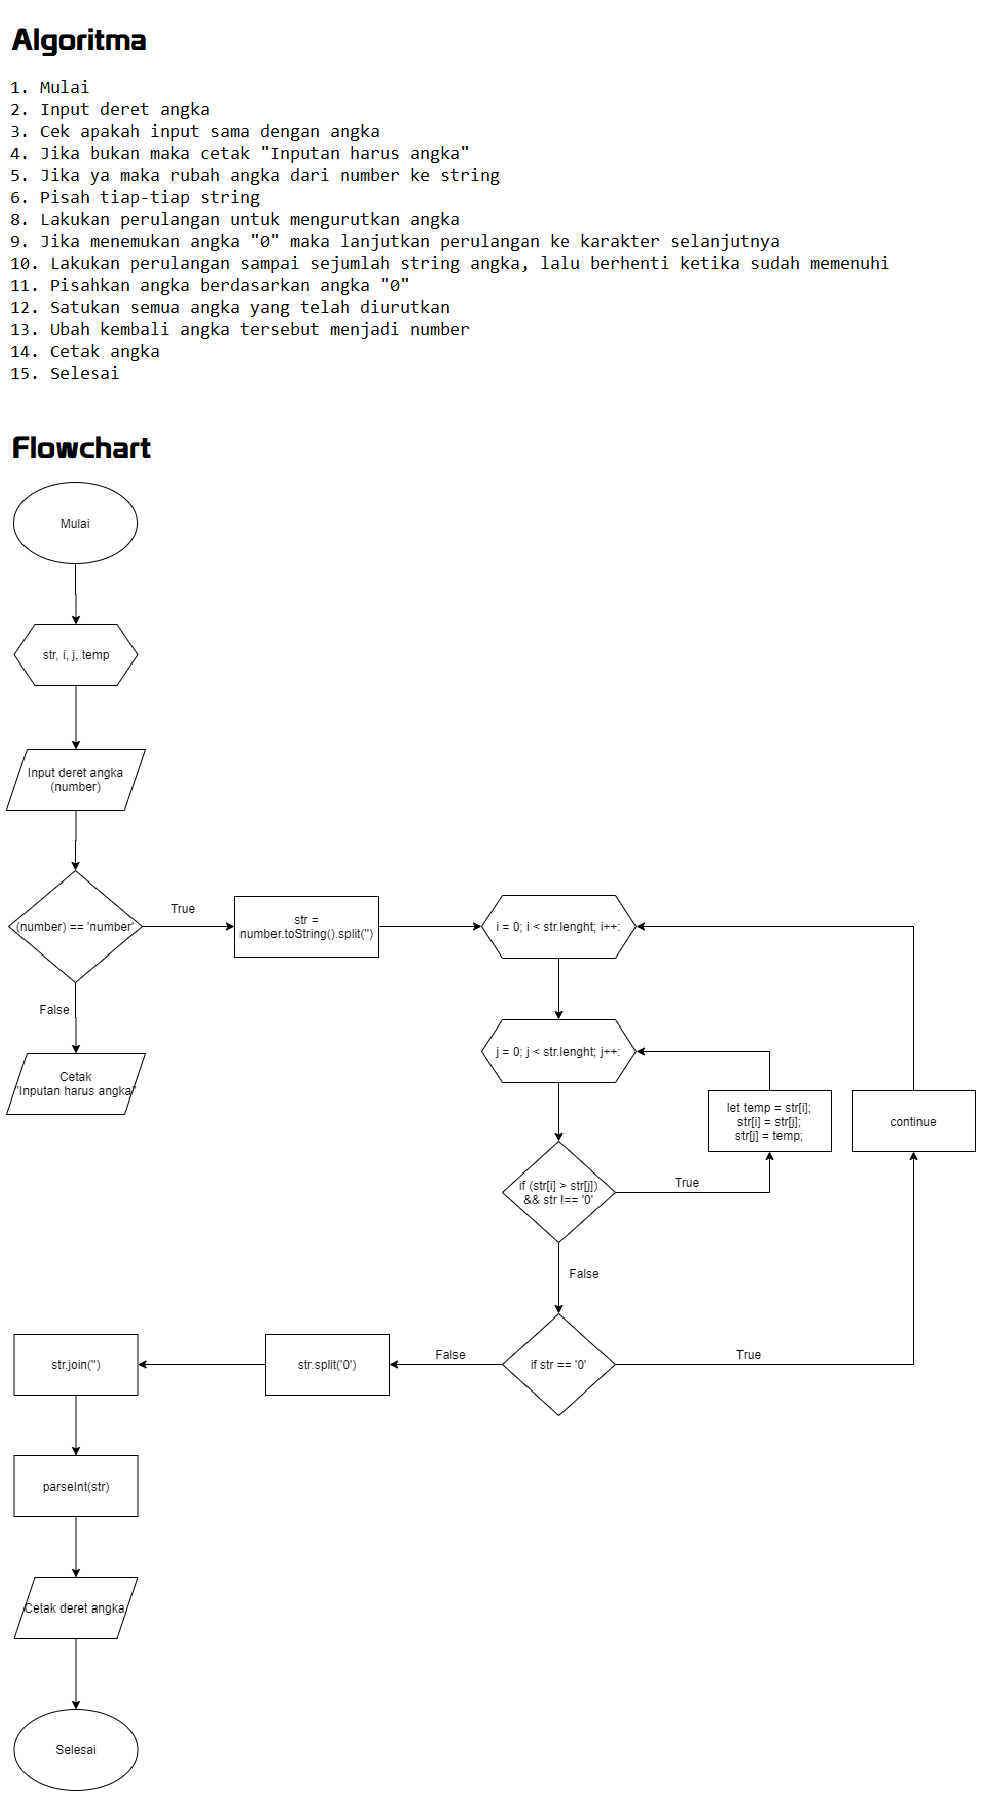
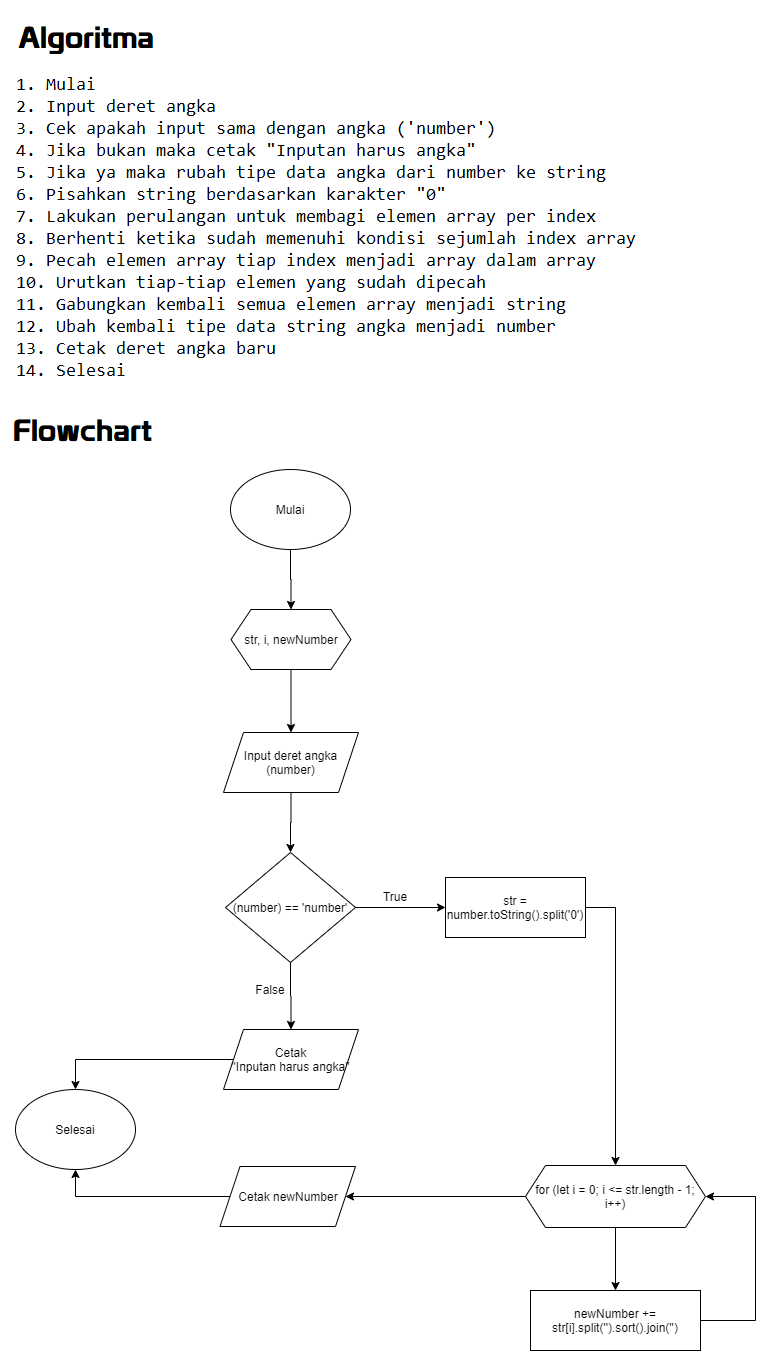
Revisi

diff --git a/Code-Implementation/Task3-Divide-Sort.js b/Code-Implementation/Task3-Divide-Sort.js
@@ -1,17 +1,14 @@
 divideAndSort = (number) => {
-    if (typeof number == 'number') {
-        let str = number.toString().split('0');
-        let loop = null
-        let newArray = ''
-        for (loop = 0; loop <= str.length; loop++) {
-            newArray += str[loop].split('').sort().join('')
-
-            console.log(parseInt(newArray))
+    if (typeof number === 'number') {
+        const str = number.toString().split('0');
+        let newNumber = ''
+        for (let i = 0; i <= str.length - 1; i++) {
+            newNumber += str[i].split('').sort().join('')
         }
-        // console.log(parseInt(newArray))
+        console.log(parseInt(newNumber))
+        return newNumber;
     } else {
         console.log('Inputan harus angka!');
     }
-    return newArray;
 }
 divideAndSort(5956560159466056);

diff --git a/Code-Implementation/Task1-Palindrome.js b/Code-Implementation/Task1-Palindrome.js
@@ -3,7 +3,7 @@ palindrome = (word) => {
     for (let i = word.length - 1; i >= 0; i--)
         rev += word[i];
 
-    if (word == rev) {
+    if (word.toLowerCase() == rev.toLowerCase()) {
         console.log(`${rev} adalah palindrom`)
     } else {
         console.log(`${rev} bukan palindrom`)

diff --git a/Code-Implementation/Task2-ReverseWords.js b/Code-Implementation/Task2-ReverseWords.js
@@ -1,5 +1,5 @@
 reverseWords = (word) => {
-    let splitString = word.split(' ');
+    const splitString = word.split(' ');
     let rev = [];
     for (let i = splitString.length - 1; i >= 0; i--) {
         rev.push(splitString[i]);
